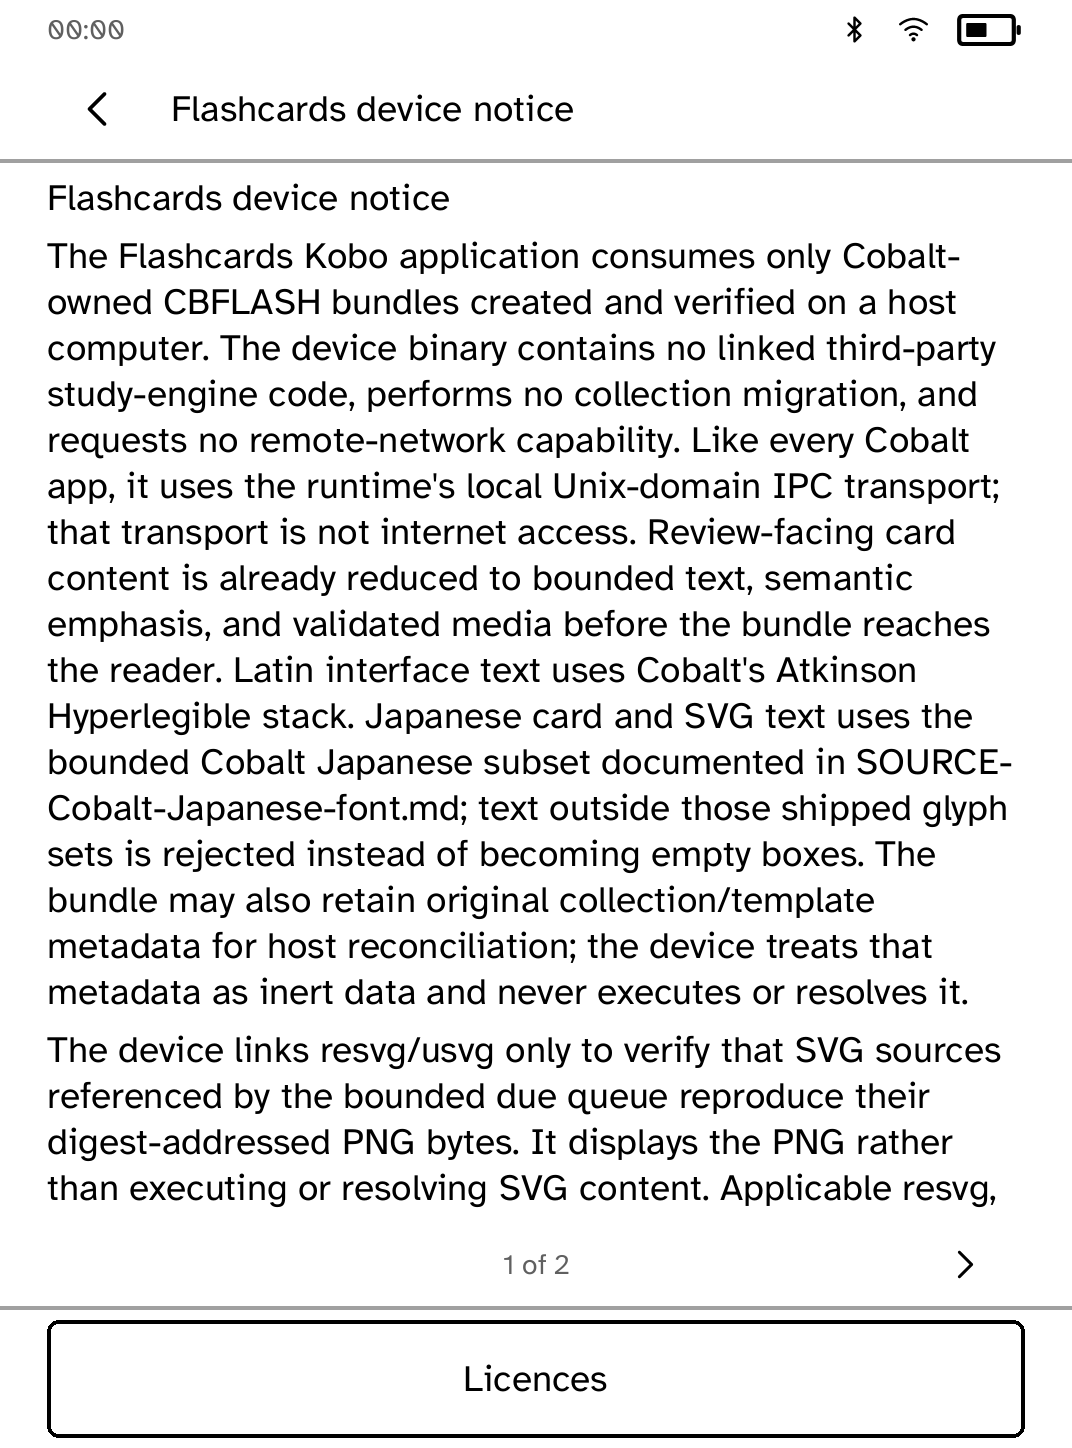
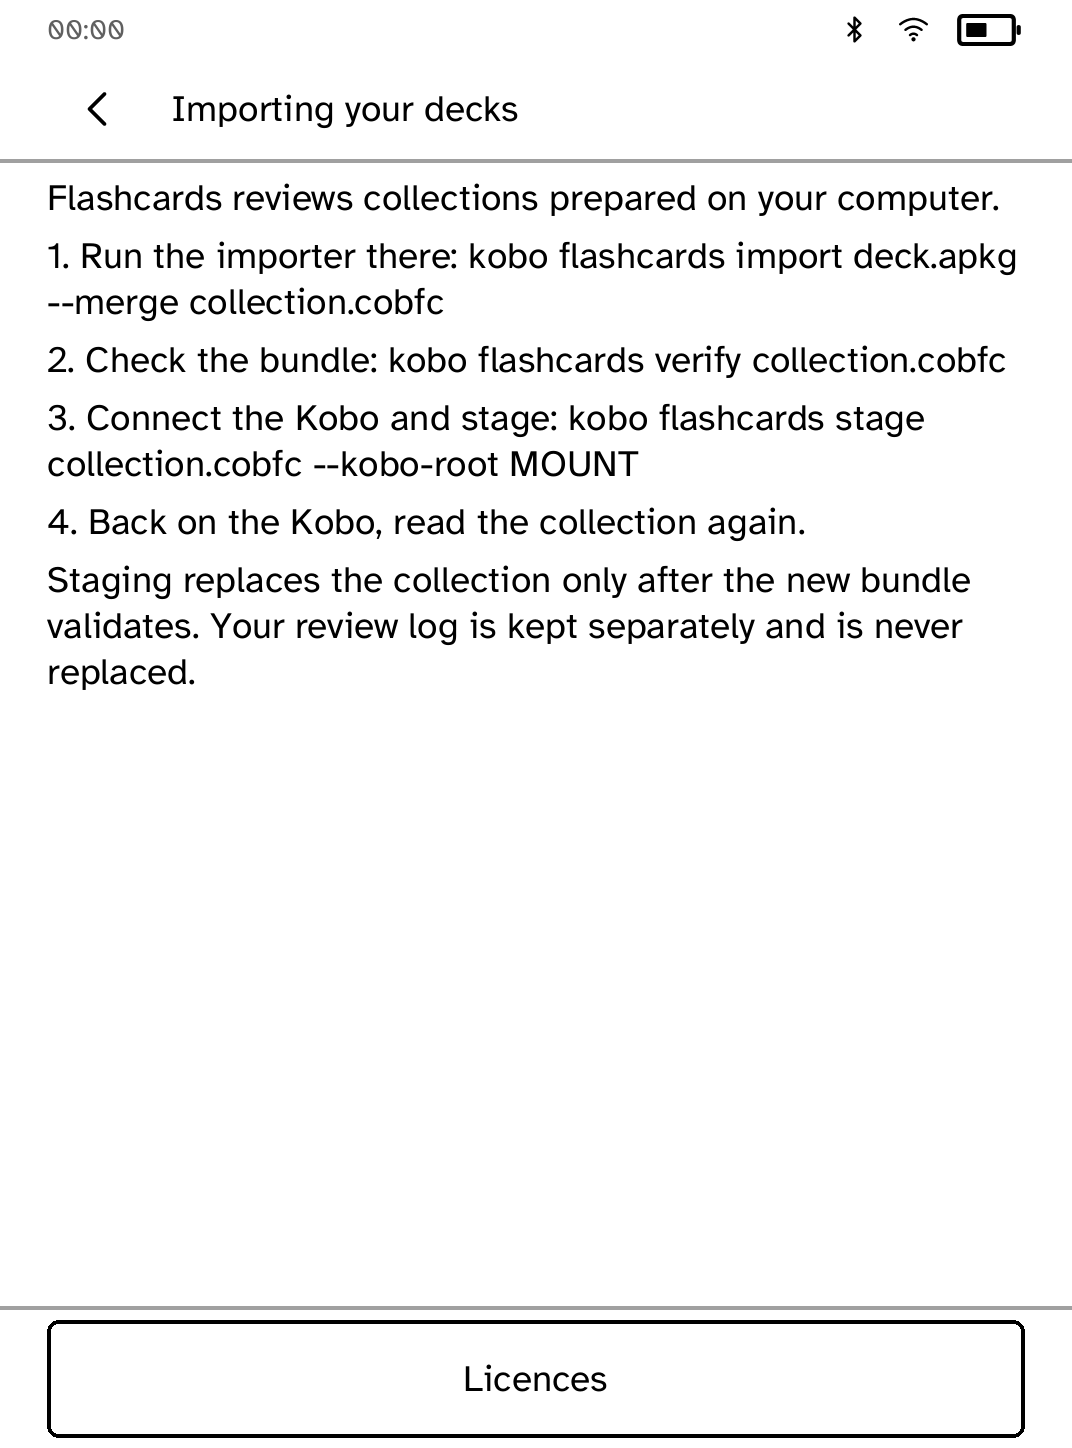
flashcards: import status, guidance notices, honest grading copy (CARDS-03, CARDS-04)
Settings states the loaded collection plainly (source and contents from
the bundle manifest) and the review facts tell the truth: grades save
on this reader, intervals are not recalculated on the Kobo. Two new
on-device guides in Licences & about - 'Importing your decks' (the
four host steps, staging validates before replacing) and 'Grades and
your review log' (local digest-bound log, survives replacement, export
from the computer). The notices index paginates so every row fits at
every text scale.

Changed region(s): [[0.0308, 0.1243, 0.9543, 0.8391], [0.1539, 0.0622, 0.5233, 0.0932]]

diff --git a/apps/flashcards/src/main.rs b/apps/flashcards/src/main.rs
@@ -145,6 +145,7 @@ struct Flashcards {
     card_page: usize,
     card_pages: Vec<StyledPage>,
     notice_page: usize,
+    notice_index_page: usize,
     notice_documents: Vec<NoticeDocument>,
     notice_document: Option<usize>,
     loading_received: u64,
@@ -181,6 +182,7 @@ impl Default for Flashcards {
             card_page: 0,
             card_pages: Vec::new(),
             notice_page: 0,
+            notice_index_page: 0,
             notice_documents: Vec::new(),
             notice_document: None,
             loading_received: 0,
@@ -199,7 +201,7 @@ impl Flashcards {
             View::Loading => loading_screen(self.loading_received, self.loading_total),
             View::Decks => self.deck_picker(),
             View::Review => self.review(),
-            View::Settings => settings_screen(self.show_details),
+            View::Settings => settings_screen(self.show_details, self.collection_facts()),
             View::Notices => self.notice_index(),
             View::NoticeDocument => self.notice(),
             View::Problem => {
@@ -250,6 +252,23 @@ impl Flashcards {
             .iter()
             .filter(|card_id| self.reviewed_cards.contains(card_id))
             .count()
+    }
+
+    fn collection_facts(&self) -> Option<CollectionFacts> {
+        let manifest = self.bundle.as_ref()?.manifest();
+        let sample = manifest
+            .sources
+            .iter()
+            .any(|source| source.package_kind == "demo");
+        Some(CollectionFacts {
+            source: if sample {
+                "Built-in sample".to_owned()
+            } else {
+                "Companion import".to_owned()
+            },
+            cards: manifest.cards.len(),
+            decks: manifest.decks.len(),
+        })
     }
 
     fn selected_deck_name(&self) -> String {
@@ -461,10 +480,14 @@ impl Flashcards {
     }
 
     fn notice_index(&self) -> Screen {
+        let page_count = self.notice_documents.len().div_ceil(5).max(1);
+        let page = self.notice_index_page.min(page_count - 1);
         let rows = self
             .notice_documents
             .iter()
             .enumerate()
+            .skip(page * 5)
+            .take(5)
             .map(|(index, document)| {
                 (
                     format!("notice-document-{index}"),
@@ -478,13 +501,21 @@ impl Flashcards {
                     ),
                 )
             });
-        ScreenBuilder::new("flashcards-notice-index")
+        let mut screen = ScreenBuilder::new("flashcards-notice-index")
             .top_bar("Licences & about")
             .owns_back(true)
             .section("On this device")
             .rows_with_trailing(rows)
-            .bottom_action("screen-back", "Done")
-            .build()
+            .bottom_action("screen-back", "Done");
+        if page_count > 1 {
+            screen = screen
+                .page_turns("notice-index-prev", "notice-index-next")
+                .page_position(
+                    u16::try_from(page + 1).unwrap_or(u16::MAX),
+                    u16::try_from(page_count).unwrap_or(u16::MAX),
+                );
+        }
+        screen.build()
     }
 
     fn notice(&self) -> Screen {
@@ -913,6 +944,14 @@ impl Flashcards {
                     self.card_page.saturating_sub(1)
                 };
             }
+            View::Notices => {
+                let last = self.notice_documents.len().div_ceil(5).saturating_sub(1);
+                self.notice_index_page = if forward {
+                    self.notice_index_page.saturating_add(1).min(last)
+                } else {
+                    self.notice_index_page.saturating_sub(1)
+                };
+            }
             View::NoticeDocument => {
                 let last = self
                     .notice_document
@@ -951,6 +990,7 @@ impl KoboApp for Flashcards {
                 self.view = View::Notices;
                 self.notice_document = None;
                 self.notice_page = 0;
+                self.notice_index_page = 0;
                 context.set_screen(self.screen());
             } else if matches!(self.view, View::Settings | View::Notices) {
                 self.close_supporting_screen(context);
@@ -967,12 +1007,14 @@ impl KoboApp for Flashcards {
             self.open_view(context, View::Settings);
         } else if action == action_id("notices") {
             self.notice_page = 0;
+            self.notice_index_page = 0;
             self.notice_document = None;
             self.open_view(context, View::Notices);
         } else if action == action_id("notice-index") {
             self.view = View::Notices;
             self.notice_document = None;
             self.notice_page = 0;
+            self.notice_index_page = 0;
             context.set_screen(self.screen());
         } else if action == action_id("screen-back") {
             self.close_supporting_screen(context);
@@ -1183,8 +1225,15 @@ fn problem_screen(kind: ProblemKind, message: &str, menu_open: bool) -> Screen {
         .build()
 }
 
-fn settings_screen(detailed: bool) -> Screen {
-    ScreenBuilder::new("flashcards-settings")
+/// What the loaded collection is, stated plainly on the settings screen.
+struct CollectionFacts {
+    source: String,
+    cards: usize,
+    decks: usize,
+}
+
+fn settings_screen(detailed: bool, collection: Option<CollectionFacts>) -> Screen {
+    let mut screen = ScreenBuilder::new("flashcards-settings")
         .top_bar("Review settings")
         .owns_back(true)
         .section("Card details")
@@ -1198,13 +1247,19 @@ fn settings_screen(detailed: bool) -> Screen {
         .chosen(usize::from(detailed))
         .section("Review behavior")
         .facts([
-            ("Order", "Imported due queue"),
-            ("Text size", "Reader setting"),
-            ("Intervals", "Not recalculated on Kobo"),
-            ("Media", "Fit without stretching"),
-        ])
-        .bottom_action("screen-back", "Done")
-        .build()
+            ("Grades", "Saved on this reader".to_owned()),
+            ("Intervals", "Not recalculated on Kobo".to_owned()),
+        ]);
+    if let Some(collection) = collection {
+        screen = screen.section("Collection").facts([
+            ("Source", collection.source),
+            (
+                "Contents",
+                format!("{} cards in {} decks", collection.cards, collection.decks),
+            ),
+        ]);
+    }
+    screen.bottom_action("screen-back", "Done").build()
 }
 
 fn done_screen(
@@ -1501,8 +1556,29 @@ fn styled_page(text: &str, spans: &[CardTextSpan], start: usize, end: usize) -> 
     }
 }
 
+/// Owner guidance, always reachable from Licences & about. Import steps match
+/// apps/flashcards/README.md; the review-log description matches what the
+/// device actually does (append-only local log, preserved across bundles).
+const GUIDANCE_DOCUMENTS: [(&str, &str); 2] = [
+    (
+        "Importing your decks",
+        "Flashcards reviews collections prepared on your computer.\n\n1. Run the importer there: kobo flashcards import deck.apkg --merge collection.cobfc\n\n2. Check the bundle: kobo flashcards verify collection.cobfc\n\n3. Connect the Kobo and stage: kobo flashcards stage collection.cobfc --kobo-root MOUNT\n\n4. Back on the Kobo, read the collection again.\n\nStaging replaces the collection only after the new bundle validates. Your review log is kept separately and is never replaced.",
+    ),
+    (
+        "Grades and your review log",
+        "Every grade is saved on this reader, in a review log bound to this collection's fingerprint. Replacing the collection keeps the log.\n\nIntervals come from the import and are not recalculated on the Kobo.\n\nTo keep a copy, export the log from your computer: kobo flashcards export-review-log --kobo-root MOUNT review-log.ndjson",
+    ),
+];
+
 fn build_notice_documents(context: &Context) -> Vec<NoticeDocument> {
     let mut documents = Vec::new();
+    for (title, text) in GUIDANCE_DOCUMENTS {
+        let mut pages = context.paginate(text, true);
+        if pages.is_empty() {
+            pages.push(vec![text.to_owned()]);
+        }
+        documents.push(NoticeDocument { title, pages });
+    }
     for (title, text) in DEVICE_DISTRIBUTION_DOCUMENTS {
         let readable = readable_notice(text);
         let mut pages = context.paginate(&readable, true);
@@ -1674,7 +1750,7 @@ mod tests {
     use std::path::{Path, PathBuf};
     use std::sync::Once;
 
-    fn install_fonts() {
+    pub(crate) fn install_fonts() {
         static ONCE: Once = Once::new();
         ONCE.call_once(|| {
             kobo_text::install(CLARA_BW_METRICS).expect("Cobalt text face");
@@ -2032,7 +2108,19 @@ mod tests {
                 None,
                 false,
             ),
-            ("settings", settings_screen(false), None, false),
+            (
+                "settings",
+                settings_screen(
+                    false,
+                    Some(CollectionFacts {
+                        source: "Companion import".to_owned(),
+                        cards: 20,
+                        decks: 2,
+                    }),
+                ),
+                None,
+                false,
+            ),
             ("licenses", notice_index, None, false),
             ("license-document", notice_screen, None, false),
         ]
@@ -2266,7 +2354,10 @@ mod tests {
         install_fonts();
         let context = Context::default();
         let notices = build_notice_documents(&context);
-        assert_eq!(notices.len(), DEVICE_DISTRIBUTION_DOCUMENTS.len());
+        assert_eq!(
+            notices.len(),
+            DEVICE_DISTRIBUTION_DOCUMENTS.len() + GUIDANCE_DOCUMENTS.len()
+        );
         assert!(
             notices
                 .iter()
@@ -2274,25 +2365,29 @@ mod tests {
                 .sum::<usize>()
                 > DEVICE_DISTRIBUTION_DOCUMENTS.len()
         );
-        let notice_index = Flashcards {
-            view: View::Notices,
-            notice_documents: notices.clone(),
-            ..Flashcards::default()
-        }
-        .notice_index();
-        let diagnostics = notice_index.diagnostics(&CLARA_BW_METRICS, &Chrome::measuring(true));
-        assert!(diagnostics.issues.is_empty(), "{:?}", diagnostics.issues);
-        for index in 0..notices.len() {
-            let rect = notice_index
-                .layout_with(&CLARA_BW_METRICS, &Chrome::measuring(true))
-                .rect_of_action(action_id(&format!("notice-document-{index}")))
-                .expect("notice row");
-            assert!(rect.height >= CLARA_BW_METRICS.touch_target_minimum());
+        let notice_page_count = notices.len().div_ceil(5).max(1);
+        for page in 0..notice_page_count {
+            let notice_index = Flashcards {
+                view: View::Notices,
+                notice_index_page: page,
+                notice_documents: notices.clone(),
+                ..Flashcards::default()
+            }
+            .notice_index();
+            let diagnostics = notice_index.diagnostics(&CLARA_BW_METRICS, &Chrome::measuring(true));
+            assert!(diagnostics.issues.is_empty(), "{:?}", diagnostics.issues);
+            let layout = notice_index.layout_with(&CLARA_BW_METRICS, &Chrome::measuring(true));
+            for index in (page * 5)..((page * 5) + 5).min(notices.len()) {
+                let rect = layout
+                    .rect_of_action(action_id(&format!("notice-document-{index}")))
+                    .expect("notice row");
+                assert!(rect.height >= CLARA_BW_METRICS.touch_target_minimum());
+            }
         }
         let screens = [
             loading_screen(0, None),
             loading_screen(100, Some(200)),
-            settings_screen(false),
+            settings_screen(false, None),
             problem_screen(
                 ProblemKind::Corrupt,
                 "The staged collection is corrupt or unsupported.",
@@ -2300,6 +2395,28 @@ mod tests {
             ),
             done_screen("Japanese", 20, 20, false, None),
         ];
+        let with_collection = settings_screen(
+            true,
+            Some(CollectionFacts {
+                source: "Companion import".to_owned(),
+                cards: 20,
+                decks: 2,
+            }),
+        );
+        for scale in [
+            TextScale::Default,
+            TextScale::ExtraLarge,
+            TextScale::Largest,
+        ] {
+            let mut metrics = CLARA_BW_METRICS;
+            metrics.text_scale = scale;
+            let diagnostics = with_collection.diagnostics(&metrics, &Chrome::measuring(true));
+            assert!(
+                diagnostics.issues.is_empty(),
+                "{scale:?}: {:?}",
+                diagnostics.issues
+            );
+        }
         for screen in screens {
             let diagnostics =
                 screen.diagnostics(&CLARA_BW_METRICS, &Chrome::measuring(screen.owns_back));
